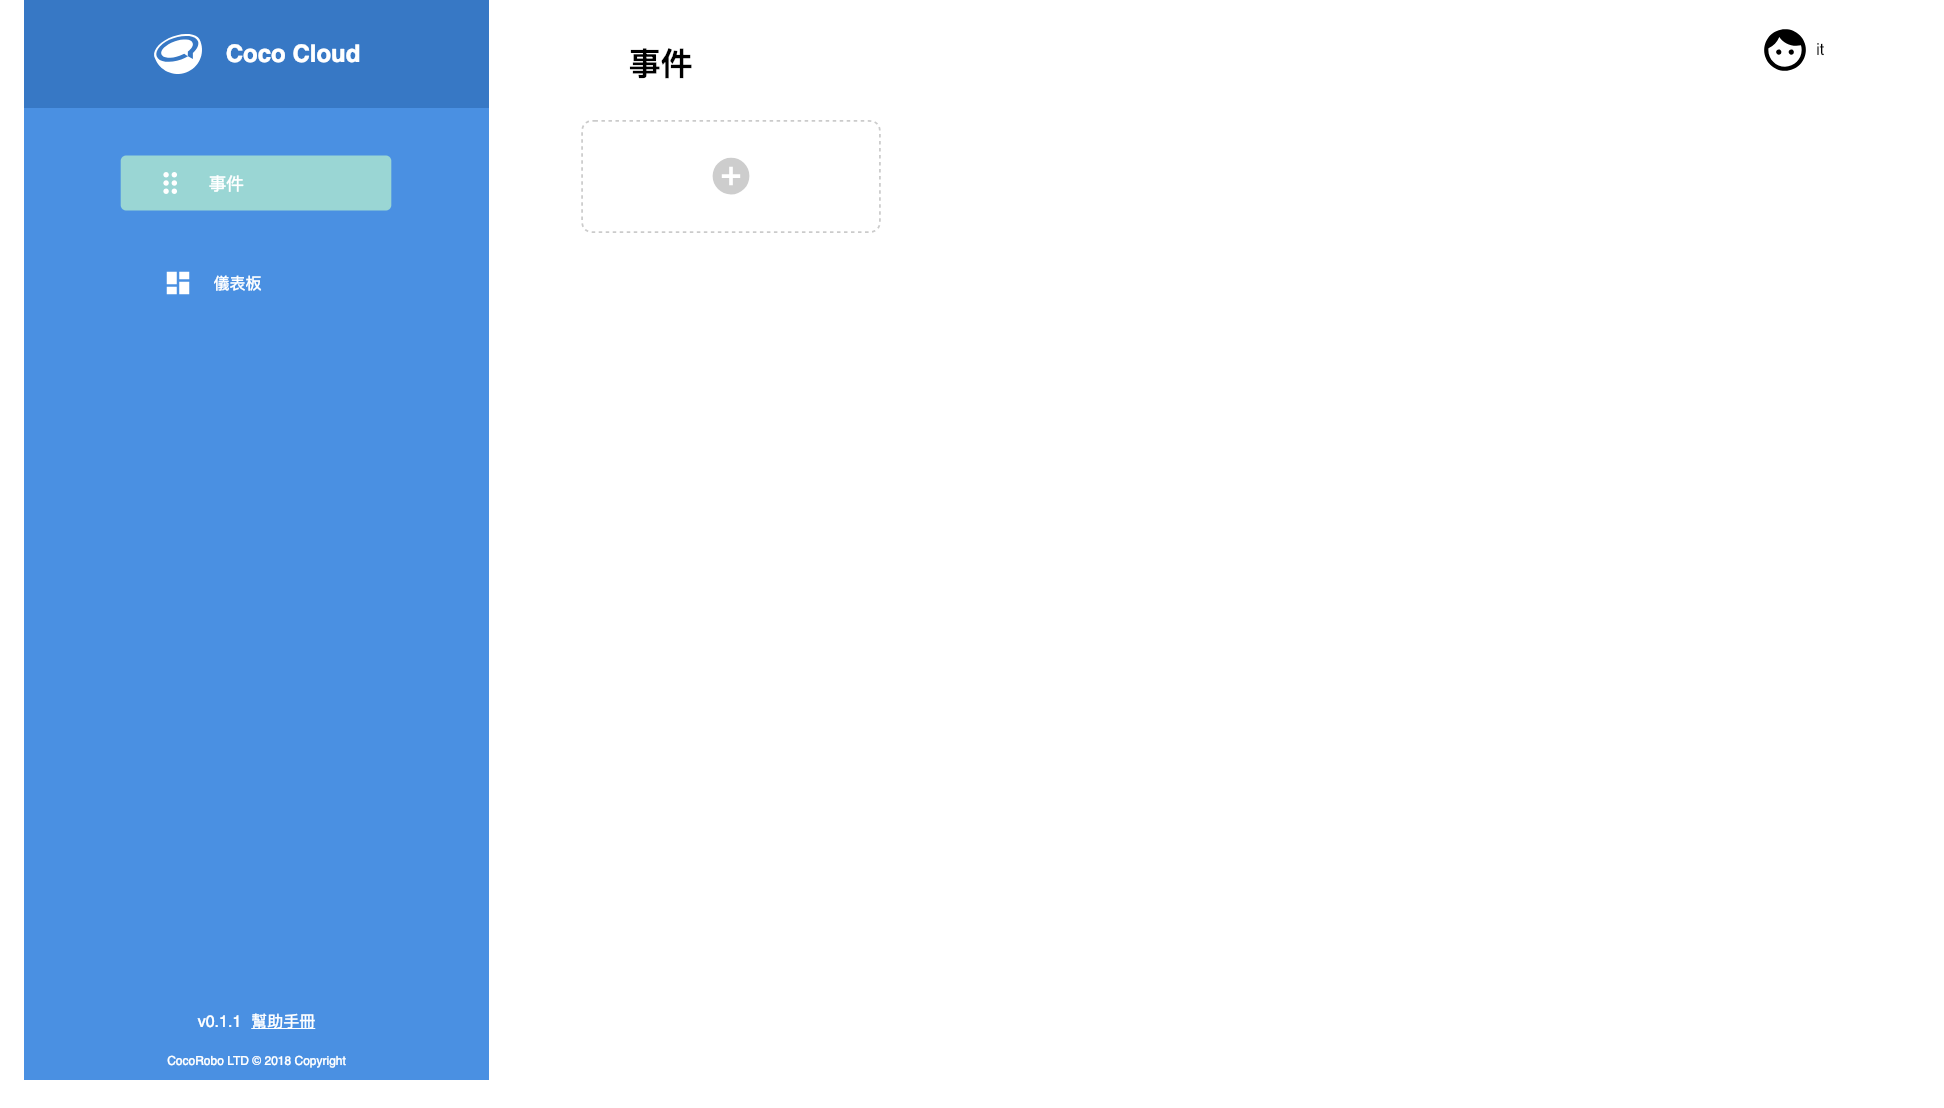
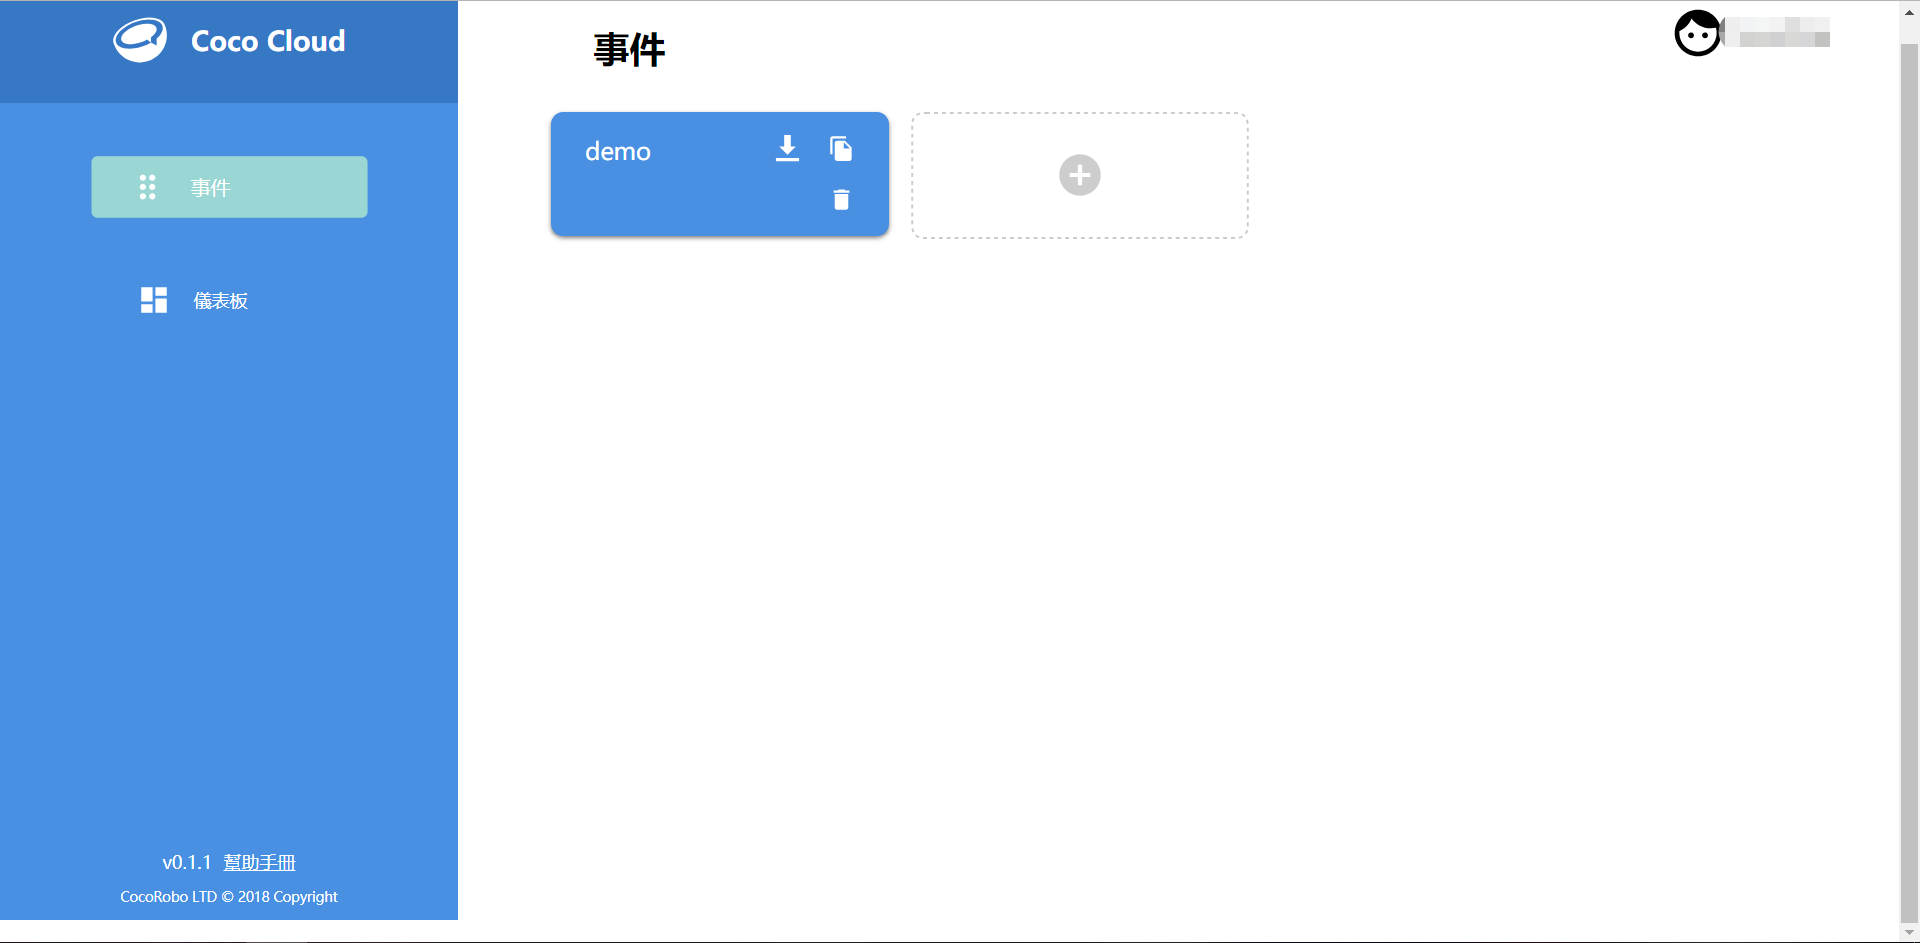
Update coco-cloud.md
-更新圖片
-根據當前功能更新文字介紹
-細化例子項目一的内容
-注釋掉項目二（含有按鈕的功能）

diff --git a/cocomod/coco-cloud.md b/cocomod/coco-cloud.md
@@ -9,19 +9,14 @@ https://cocorobo.hk/cloud
 
 ## 平臺主要組件
 
-![cocoCloud](../media/cocoCloud__2.jpeg)
-![cocoCloud](../media/cocoCloud__1.jpeg)
-![cocoCloud](../media/cocoCloud__3.jpeg)
-
-
 
 |編號 |組件名稱 | 組件描述  |
 |-  |-  |-  |
-|1. |Dashboard  | 數據視覺化面板，控制按鈕面板 |
-|2. |Event  | 事件管理|
-|3. |APIKEY  | 用戶的APIKEY  |
+|1. |事件  | 事件管理 |
+|2. |儀表板  | 數據可視化面板，控制按鈕面板 |
 
-
+![cocoCloud](../media/cocoCloud__1.png)
+![cocoCloud](../media/cocoCloud__2.jpg)
 
 ## 組件使用說明
 
@@ -40,49 +35,72 @@ https://cocorobo.hk/cloud
 
 ---
 
-## Events
+## 事件
 
-在 Events 中，用戶可以創建命名事件，以此來對每個屬性以及數據進行管理。
+在 「事件」 中，用戶可以創建命名事件，以此來對每個屬性以及數據進行管理。
 
 ### 創建方法
 
-![cocoCloud__events](../media/cocoCloud__event--1.jpeg)
+![cocoCloud__events](../media/cocoCloud__event_1.png)
 
 點擊新增按鈕（ + ）
 
-![cocoCloud__events](../media/cocoCloud__event--2.jpeg)
+![cocoCloud__events](../media/cocoCloud__event_2.png)
 
-輸入事件名稱，與類別（非必填），點擊創建即可完成事件的建立
+輸入事件名稱，點擊創建即可完成事件的建立
 
 ### 使用方法
 
-#### 獲取URL
-![cocoCloud__events](../media/cocoCloud__event--3.jpeg)
+#### 獲取 API Key
 
-點擊複製圖標即可獲取事件的URL，由此來對事件進行數據的新增。
+有關 API Key 的介紹請前往 [API Key](#APIKey)查看
+
+![cocoCloud__events](../media/cocoCloud__event_3.png)
+
+點擊「複製圖標」即可獲取該事件的 API Key，由此來對事件進行數據的新增。
+
+#### 添加屬性
+
+初次添加屬性時，直接在CocoBlockly的wifi模式上向Coco Cloud發送數據，即可生成對應事件的屬性。
+
+![cocoCloud__events](../media/cocoCloud_property_1.png)
+
+##### 積木編程
+
+在wifi模式中點擊右上角工具欄「登入」按鈕登錄自己的Coco Cloud賬號：
+![cocoCloud__events](../media/cocoCloud_property_3.png)
+
+設置連接 Wi-Fi，設置 API Key，設置屬性名稱：
+![cocoCloud__events](../media/cocoCloud_property_2.png)
+
+##### 最終效果
+
+Coco Cloud平臺上：
+
+![cocoCloud__events](../media/cocoCloud_property_4.png)
 
 #### 事件查看
 
-點擊事件，即可看到事件的屬性，以及最後一筆數據的內容
+點擊事件，即可看到事件的屬性，以及獲取到的屬性的最新數據
 
-![cocoCloud__events](../media/cocoCloud__event--4.jpeg)
+![cocoCloud__events](../media/cocoCloud_property_4.png)
 
 
-## Dashboard
+## 儀表板
 
-在 Dashboard 中，用戶可以創建數據可視化的面板，在面板中觀察數據的變化，也可以創建插件，用來對事件的某個屬性進行開關的控制。Dashboard 建立於 Events 之上。
+在 「儀表板」 中，用戶可以創建數據可視化的面板，在面板中觀察數據的變化，也可以創建插件「切換按鈕」 ，用來對事件的某個屬性進行開關的控制。「儀表板」 建立於 「事件」 之上。
 
-![cocoCloud](../media/cocoCloud__2.jpeg)
+![cocoCloud](../media/cocoCloud__2.jpg)
 
 ### 創建方法
 
-![cocoCloud__dashboard](../media/cocoCloud__dashboard--1.jpeg)
+![cocoCloud__dashboard](../media/cocoCloud__dashboard_1.png)
 
 點擊新增按鈕（ + ）
 
-![cocoCloud__dashboard](../media/cocoCloud__dashboard--2.jpeg)
+![cocoCloud__dashboard](../media/cocoCloud__dashboard_2.png)
 
-輸入要創建的工具種類，目前支持
+選擇要創建的工具種類，目前支持的工具種類有：
 
 * 數據可視化
 * 插件
@@ -91,23 +109,32 @@ https://cocorobo.hk/cloud
 
 * 數據可視化
   * 線型圖
+<div style="margin:0px 0 20px 0;">
+<img src="../media/cocoCloud__dashboard_3.png" width=40%/>
+</div>
+
   * 區域圖
+  <div style="margin:0px 0 20px 0;">
+  <img src="../media/cocoCloud__dashboard_5.png" width=40%/>
+  </div>
 
 * 插件
-  * 開關
+  * 切換按鈕
+  <div style="margin:0px 0 20px 0;">
+  <img src="../media/cocoCloud__dashboard_4.png" width=40%/>
+  </div>
 
-輸入事件的名稱
-
-輸入欲觀察或改變的屬性
-
-點擊創建後即可看見數據的歷史數據所構成的圖表
-
-![cocoCloud](../media/cocoCloud__2.jpeg)
+選擇事件的名稱，選擇欲觀察或改變的屬性，點擊創建後即可看見數據的歷史數據所構成的圖表
 
 
-## API Key
 
-用戶的唯一識別碼。
+## <span id="APIKey">API Key</span>
+
+用戶的唯一識別碼。用戶創建的每個事件都有獨立且唯一的 API Key ，在「Coco Cloud 積木」中填入對應事件的 API Key 即可向該事件發送或獲取屬性的數據。
+
+<div style="text-align:center;margin:0px 0 20px 0;">
+<img src="../media/cocoCloud_api_1.png" width=40%/>
+</div>
 
 ***
 
@@ -116,7 +143,10 @@ https://cocorobo.hk/cloud
 | 項目類型 | 項目內容 | 備註 |
 | :------ | :------ | :------: |
 | CocoCloud | 雲端呈現環境模組數據 | [查看此處](#項目一)  |
+
+<!--
 | CocoCloud | 雲端控制LED亮暗 | [查看此處](#項目二)  |
+-->
 
 ---
 
@@ -126,22 +156,52 @@ https://cocorobo.hk/cloud
 
 ####  項目簡介 : 雲端呈現環境模組數據
 
-雲端呈現環境模組數據: 將數據從主機板傳輸至WiFi通訊模組，然後傳輸至CocoCloud雲端，在CocoCloud展示數據
+雲端呈現環境模組數據: 將數據從主機板傳輸至 WiFi 通訊模組，然後由 WiFi 通訊模組傳輸至 Coco Cloud 雲端，在 Coco Cloud 展示數據
+
+#### 模組組裝
+
+> 注：需對主機板模組和 WiFi 通訊模組分別上傳對應模式下的積木程式后再拼接在一起
+
+<div style="text-align:center;margin:0px 0 20px 0;">
+  <img src="../media/cocoCloud_project_1.jpg" width=40%/>
+  </div>
+
+#### Coco Cloud 事件創建
+
+在 Coco Cloud 雲端平臺上為環境模組收集的數據創建一個事件「Environment」
+
+![wifi__main](../media/cocoCloud_project_1_1.png)
 
 #### 主機板程式預覽
 
-* 主機板 - 設置環境積木，設置數據傳輸至WiFi通訊模組
-  程式下載 <a href="../xml/cocoCloud_project1/project1_main.xml" download >project1_main.xml</a>
+* 主機板模式 - 設置環境積木，設置數據傳輸至WiFi通訊模組
+  程式下載： <a href="../xml/cocoCloud_project1/project1_main.xml" download >project1_main.xml</a>
 
 ![wifi__main](../media/cocoCloud_project_1_main.png)
 
 #### WiFi程式預覽
 
-* WiFi - 設置連網，接收主機板數據，設置CocoCloud發送積木發起請求發送數據至雲端
-  程式下載 <a href="../xml/cocoCloud_project1/project1_main.xml" download >project1_wifi.xml</a>
+* WiFi模式 - 設置連網，接收主機板數據，設置「 Coco Cloud 發送積木」發起請求發送數據至雲端
+  程式下載： <a href="../xml/cocoCloud_project1/project1_wifi.xml" download >project1_wifi.xml</a>
+
+<div style="text-align:center;margin:0px 0 20px 0;">
+  <img src="../media/cocoCloud_project_1_wifi_1.png" width=40%/>
+  </div>
 
 ![wifi__main](../media/cocoCloud_project_1_wifi.png)
 
+#### 數據可視化
+
+在 Coco Cloud 雲端平臺上的「儀表板」列表中為事件「Environment」的屬性依次創建可視化工具
+
+![wifi__main](../media/cocoCloud_project_1_4.png)
+
+#### 最終效果
+
+![wifi__main](../media/cocoCloud_project_1_2.png)
+
+![wifi__main](../media/cocoCloud_project_1_3.png)
+<!--
 ---
 
 ### 項目二
@@ -152,7 +212,7 @@ https://cocorobo.hk/cloud
 
 #### 主機板程式預覽
 
-* 主機板 - 接收WiFi通訊模組傳輸過來的數據，設置LED 
+* 主機板 - 接收WiFi通訊模組傳輸過來的數據，設置LED
   程式下載 <a href="../xml/cocoCloud_project2/project2_main.xml" download >project2_main.xml</a>
 
 ![wifi__main](../media/cocoCloud_project_2_main.png)
@@ -164,4 +224,4 @@ https://cocorobo.hk/cloud
   download >project2_wifi.xml</a>
 
 ![wifi__main](../media/cocoCloud_project_2_wifi.png)
-
+-->
